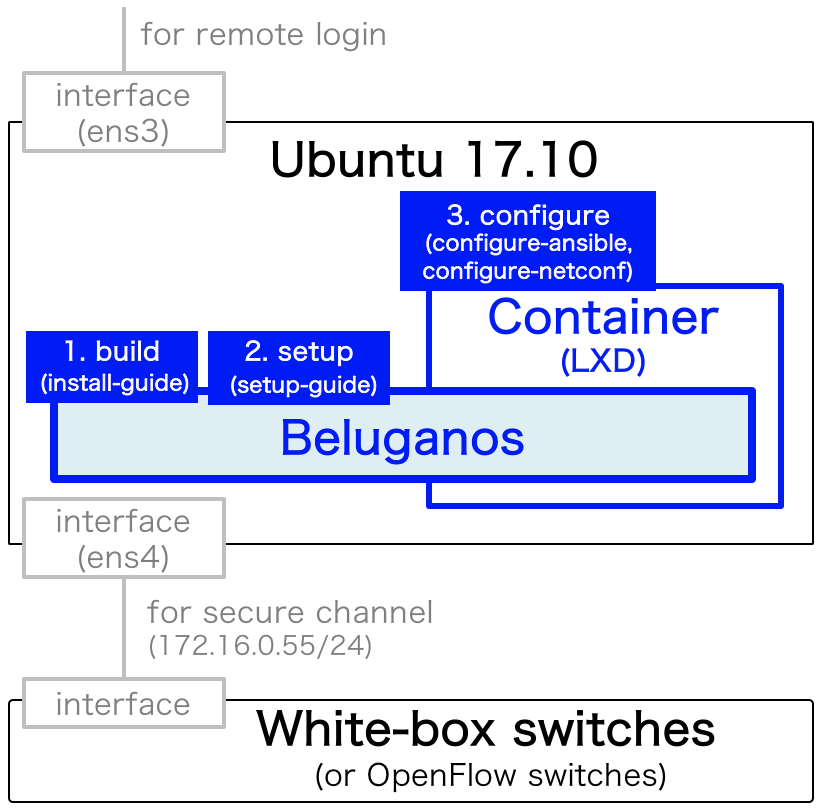
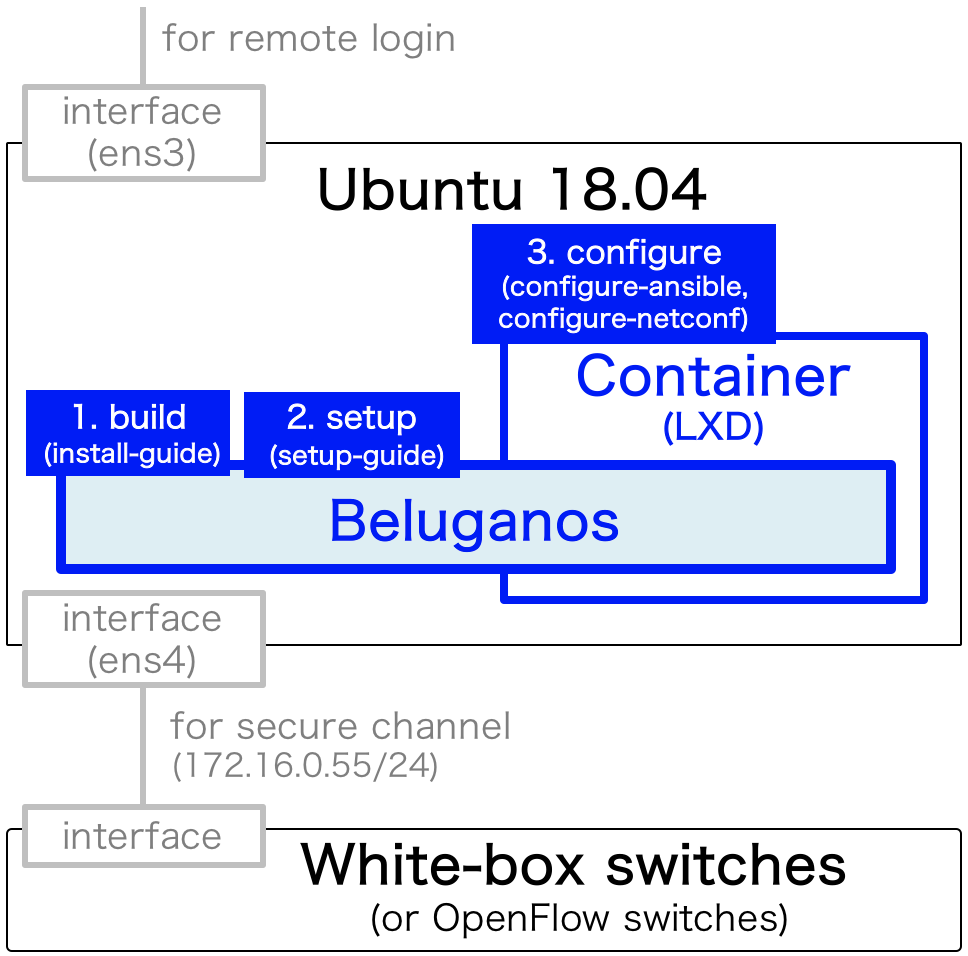
[change] Update base OS to Ubuntu 18.04

Changed region(s): [[0.0, 0.0928, 1.0, 1.0], [0.061, 0.0, 0.4878, 0.1856]]

diff --git a/doc/install-guide.md b/doc/install-guide.md
@@ -7,7 +7,7 @@ This document shows how to install beluganos in your systems. Automation scripts
 Generally, network OS is installed into white-box switches. In Beluganos, you can also build Beluganos into the white-box switches. However, at first, preparing extra server (or VM) and installing here are recommended at first.
 
 - Ubuntu server
-	- **Ubuntu 17.10** (17.10.1-server-amd64) is strongly recommended (Note that supporting Ubuntu 18.04 is scheduled).
+	- **Ubuntu 18.04** (18.04-live-server-amd64) is strongly recommended.
 	- **Two or more network interfaces** are required.
 	- Some LXC instance will be created. More than **12GB HDD** is recommended.
 - White-box switches

diff --git a/doc/example/case1/case1.md b/doc/example/case1/case1.md
@@ -7,13 +7,13 @@ This case is suitable for a beginner of Beluganos, because not only Beluganos's 
 In this case, two servers are needed. The virtual machine (VM) is acceptable. **IP reachability is needed** between server 1 and 2.
 
 - Server 1 (for Beluganos)
-	- Ubuntu 17.10 server
+	- Ubuntu 18.04 server
 	- 10GB+ storage
 	- At least two NICs
 		- One should be connected with server 2. The other is used for your login via SSH. 
 		- Please set IP addresses before following setup procedure.
 - Server 2 (for OVS and other routers)
-	- Ubuntu 17.10 server
+	- Ubuntu 18.04 server
 	- 12GB+ storage
 	- At least one NICs
 		- This should be connected with server 1.

diff --git a/doc/example/case2/case2.md b/doc/example/case2/case2.md
@@ -4,7 +4,7 @@ The one of advantage using Beluganos is MPLS-VPN. In this case, the sample confi
 
 ## Pre-requirements
 
-- Ubuntu 17.10 server
+- Ubuntu 18.04 server
 	- 10GB+ strage
 	- At least two NICs
 		- One of this should be connected with white-box switch. Please set IP address before following setup procedure.
